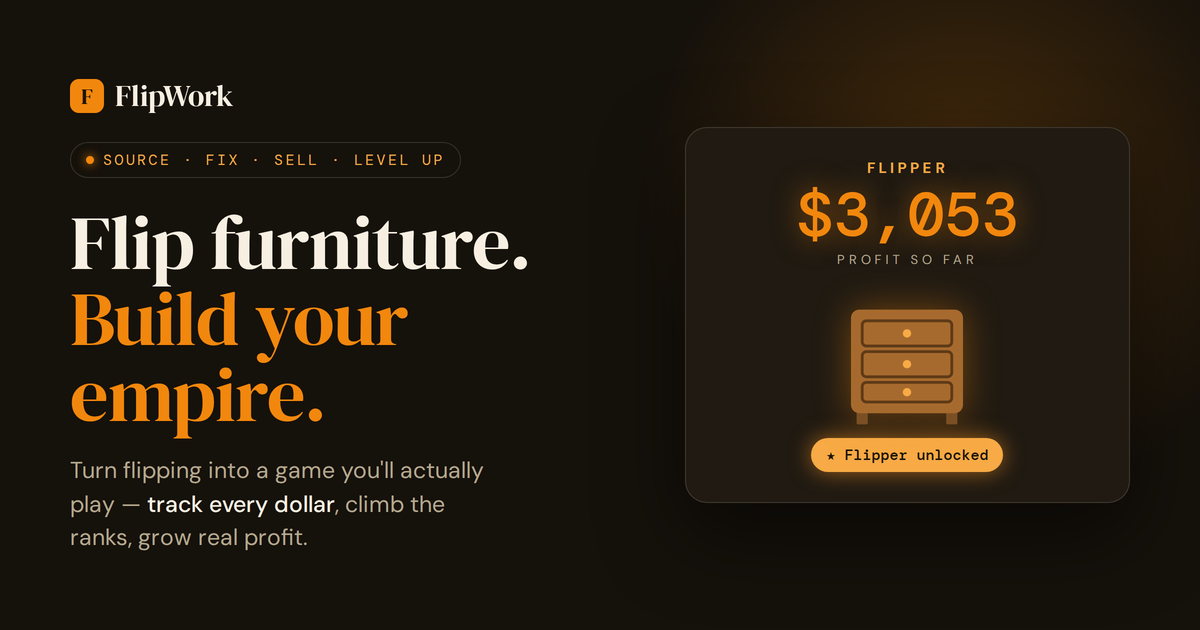
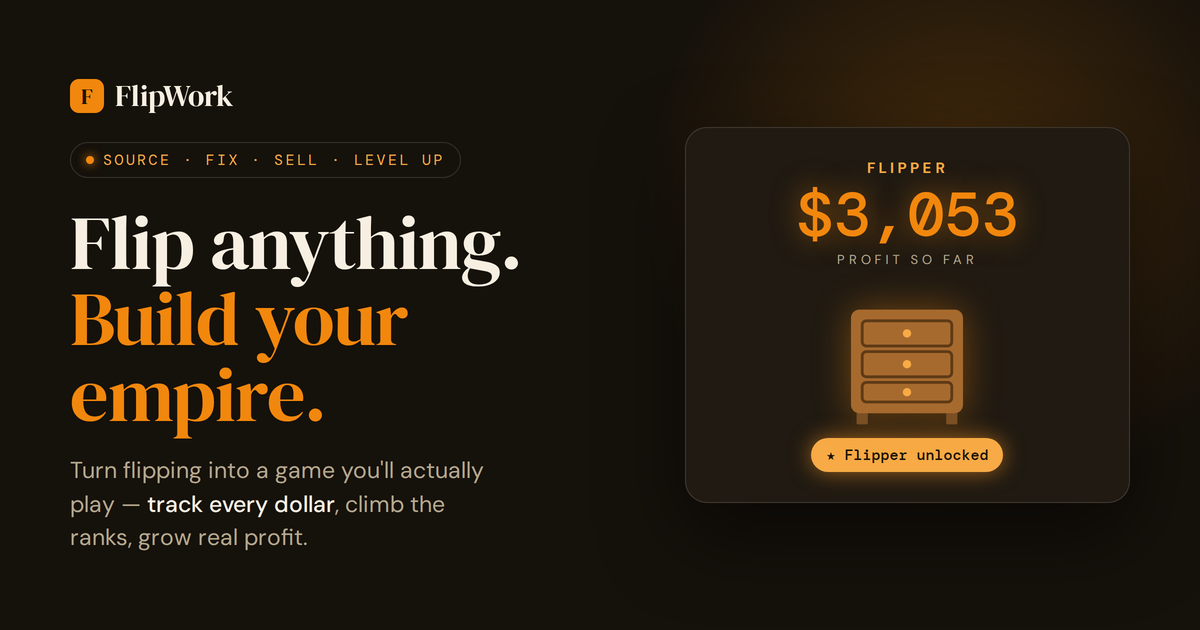
Broaden hero + share preview: 'Flip anything' (all flippers, not just furniture)
FlipWork is for every kind of flipper, so the furniture-specific headline
was too narrow. Change hero h1, the OG share-card image, and the OG/Twitter
title + alt from 'Flip furniture' to 'Flip anything. Build your empire.'

Changed region(s): [[0.1542, 0.3317, 0.4625, 0.4524]]

diff --git a/app/layout.tsx b/app/layout.tsx
@@ -33,13 +33,13 @@ export const metadata: Metadata = {
     statusBarStyle: 'default',
   },
   title: {
-    default: 'FlipWork — Flip furniture, build your empire',
+    default: 'FlipWork — Flip anything, build your empire',
     template: '%s · FlipWork',
   },
   description:
     "Turn flipping into a game you'll actually play. Track every dollar from buy to sold, climb the ranks, and watch your real profit grow. Free to start.",
   openGraph: {
-    title: 'FlipWork — Flip furniture, build your empire',
+    title: 'FlipWork — Flip anything, build your empire',
     description:
       "Turn flipping into a game you'll actually play. Track every dollar from buy to sold, climb the ranks, and watch your real profit grow. Free to start.",
     url: 'https://myflipwork.com',
@@ -51,13 +51,13 @@ export const metadata: Metadata = {
         url: '/og-image.png',
         width: 1200,
         height: 630,
-        alt: 'FlipWork — flip furniture, build your empire. Track every flip and climb the ranks.',
+        alt: 'FlipWork — flip anything, build your empire. Track every flip and climb the ranks.',
       },
     ],
   },
   twitter: {
     card: 'summary_large_image',
-    title: 'FlipWork — Flip furniture, build your empire',
+    title: 'FlipWork — Flip anything, build your empire',
     description:
       "Turn flipping into a game you'll actually play. Track every dollar from buy to sold, climb the ranks, and watch your real profit grow. Free to start.",
     images: ['/og-image.png'],

diff --git a/components/landing/AnimatedHero.tsx b/components/landing/AnimatedHero.tsx
@@ -144,7 +144,7 @@ export default function AnimatedHero({
             <span className="fwh-dot" /> Source · Fix · Sell · Level up
           </span>
           <h1 className="fwh-h1">
-            <span className="fwh-ln">Flip furniture.</span>
+            <span className="fwh-ln">Flip anything.</span>
             <span className="fwh-ln">
               <span className="fwh-hl">Build your empire.</span>
             </span>